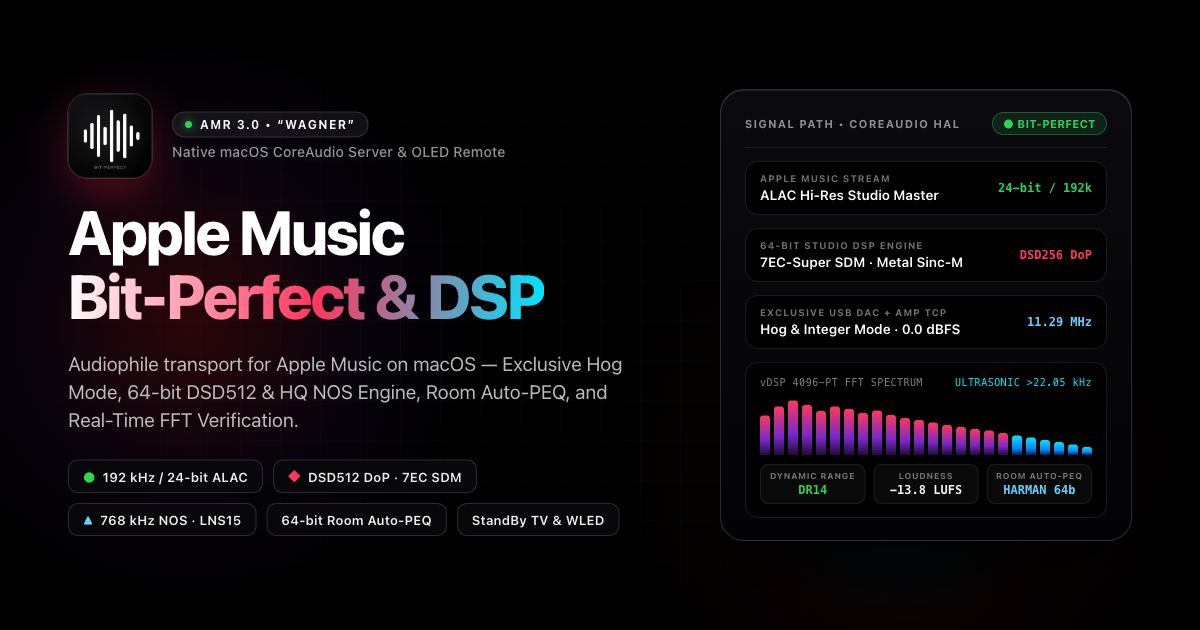
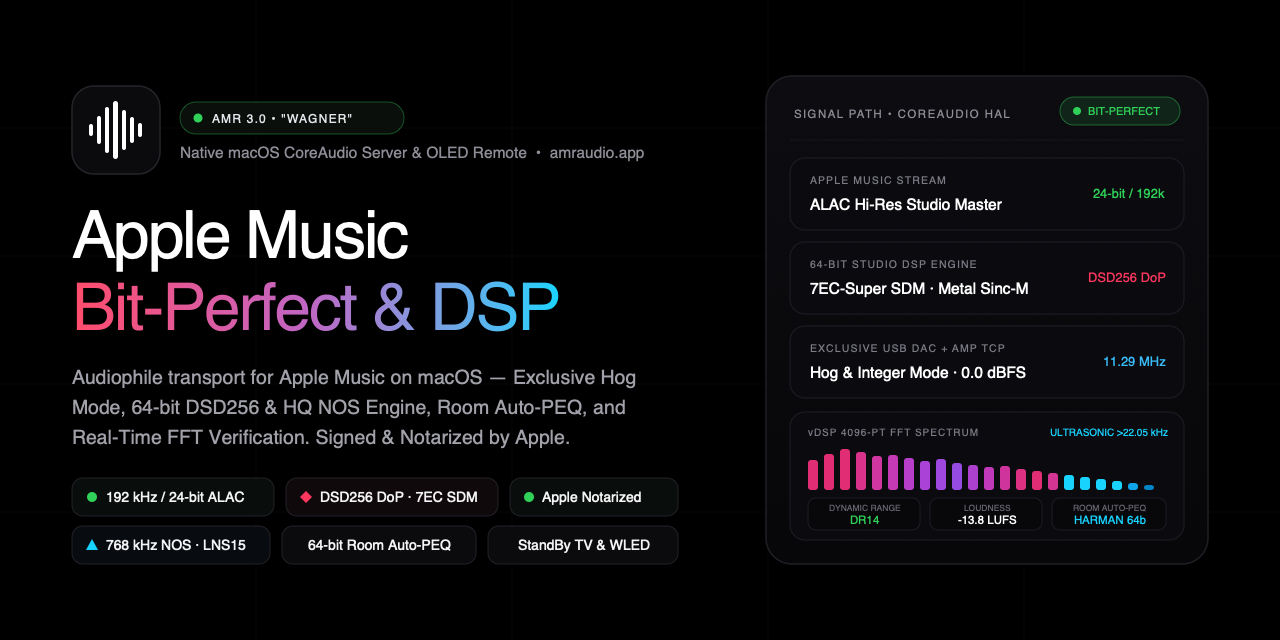
docs: align DSD256 specs, link amraudio.app & add community templates

diff --git a/ROADMAP.md b/ROADMAP.md
@@ -8,7 +8,7 @@ Strategic engineering roadmap for **Apple Music Remote (AMR)** — the native au
 
 1. **Uncompromising Bit-Perfect Audio & Isolated 64-Bit Studio DSP**:
    - Direct CoreAudio HAL control without intermediate OS software mixers or resamplers by default (`100% Bit-Perfect Passthrough`).
-   - Strict hardware sample-rate synchronization (`44.1 – 192 kHz` in Passthrough and up to `768 kHz / DSD512 DoP` in exclusive `Hog Mode`) guarded by automatic 3-stage USB DAC capability verification and 1-click hardware bypass.
+   - Strict hardware sample-rate synchronization (`44.1 – 192 kHz` in Passthrough and up to `768 kHz / DSD256 DoP` in exclusive `Hog Mode`) guarded by automatic 3-stage USB DAC capability verification and 1-click hardware bypass.
    - Enforced `100% Volume Lock` in macOS paired with external hardware volume attenuation over TCP (`Rotel`, `Denon / Marantz`, `Hegel`, `NAD`, `Lyngdorf`) and lossless streamers (`BluOS / DLNA`) for zero word-length degradation.
 2. **Headless Mac mini Autonomy**:
    - 24/7 background operation without requiring an open GUI window or brittle Accessibility UI scripting.
@@ -28,7 +28,7 @@ Strategic engineering roadmap for **Apple Music Remote (AMR)** — the native au
 | **v2.3.0** | **"Bach"** | ✅ Completed | 1. Bit-Perfect BluOS streaming via `AudioProcessTapService` (`24/192`)<br>2. Stream format pre-inspection & strict `Format Lock`<br>3. `MusicAppLifecycleManager` watchdog & persistent `ArtworkDiskCache` |
 | **v2.4.0** | **"Brahms"** | ✅ Completed | 1. Apple Music personalization: Listen Now, mixes & personal stations<br>2. Fullscreen StandBy / TV Mode (Motion Covers) + 40 FPS WLED DDP Ambilight<br>3. Anti-Stutter, AAC vs. ALAC detection & lightweight Zero-Stall IPC poller |
 | **v2.5.0** | **"Liszt"** | ✅ Completed | 1. `vDSP` FFT Spectral Hi-Res Verifier + persistent cache + 32-band TV RTA<br>2. `DAC Muting Guard` click-free sample-rate relay switcher<br>3. 📖 Multi-page Digital Album Booklets (`PDFKit`) + Studio Credits<br>4. 🔐 PWA Device Authorization, QR Invite sharing & per-device Lock Screen<br>5. ➕ Playlist management & Save AI Queue as Playlist + `EN / RU` localization<br>6. 🪄 On-device Apple Neural Engine AI (`FoundationModels` + 512-D `NLEmbedding` + `Vision` Saliency): Prompt Curator, Infinite AI Wave & semantic queue flow<br>7. 🔊 External Amplifier TCP volume bridge + hardware `iTunNORM` SoundCheck |
-| **v3.0.0** | **"Wagner"** | ✅ **Released** | 1. 🎛 Hybrid 64-Bit Studio DSP + `CoreAudio Exclusive Hog Mode`: `DSD64–DSD512 DoP (7EC + Trellis)`, `2x–16x` synchronous upsampling up to `768 kHz` (`AMX FP64` 65k / `Metal df64` 262k Sinc + `HQ PCM NOS` with `LNS15`), 3-stage USB DAC verifier & DSP presets<br>2. 📐 In-browser iPhone / iPad Room Acoustic Measurement (`RoomAcousticService`) + 64-bit 8-band `Auto-PEQ` toward Harman Target<br>3. 📊 Live Mastering Telemetry (`TT DR`, `EBU R128 LUFS / True Peak`, `4x ISP`, `Phase`) + Pre-DSP Restoration (`MasteringDeClipper` + `Weiss Dynamic De-Esser`) + `Audiophile Late-Night DRC` & `Repeat One`<br>4. ☁ Two-way **iCloud Drive** sync (DSP presets, DR/SoundCheck caches, Room PEQ), granular PWA device permissions, Zero-Keychain `AES-256-GCM` vault, Apple Notarized Universal DMG & `< 50 ms` `BluOS / DLNA` volume<br>5. 🌉 **`Sonic Bridge`** 512-D `SLERP` geodesic AI trajectory router<br>6. 🗂 Dedicated **Playlists** vs. 4-tab **Library** (`Recent / Artists / Albums / Songs`), full library deletion, Album Completeness Detector & configurable TV Library<br>7. ⚡ Sub-second (`0.5–0.9 s`) Direct Cloud ALAC/Hi-Res engine with single reusable staging buffer, zero library pollution & RAM `gzip` asset cache |
+| **v3.0.0** | **"Wagner"** | ✅ **Released** | 1. 🎛 Hybrid 64-Bit Studio DSP + `CoreAudio Exclusive Hog Mode`: `DSD64–DSD256 DoP (7EC + Trellis)`, `2x–16x` synchronous upsampling up to `768 kHz` (`AMX FP64` 65k / `Metal df64` 262k Sinc + `HQ PCM NOS` with `LNS15`), 3-stage USB DAC verifier & DSP presets<br>2. 📐 In-browser iPhone / iPad Room Acoustic Measurement (`RoomAcousticService`) + 64-bit 8-band `Auto-PEQ` toward Harman Target<br>3. 📊 Live Mastering Telemetry (`TT DR`, `EBU R128 LUFS / True Peak`, `4x ISP`, `Phase`) + Pre-DSP Restoration (`MasteringDeClipper` + `Weiss Dynamic De-Esser`) + `Audiophile Late-Night DRC` & `Repeat One`<br>4. ☁ Two-way **iCloud Drive** sync (DSP presets, DR/SoundCheck caches, Room PEQ), granular PWA device permissions, Zero-Keychain `AES-256-GCM` vault, Apple Notarized Universal DMG & `< 50 ms` `BluOS / DLNA` volume<br>5. 🌉 **`Sonic Bridge`** 512-D `SLERP` geodesic AI trajectory router<br>6. 🗂 Dedicated **Playlists** vs. 4-tab **Library** (`Recent / Artists / Albums / Songs`), full library deletion, Album Completeness Detector & configurable TV Library<br>7. ⚡ Sub-second (`0.5–0.9 s`) Direct Cloud ALAC/Hi-Res engine with single reusable staging buffer, zero library pollution & RAM `gzip` asset cache |
 | **v3.1.0** | **"Schumann"** | 📋 Planned | 1. 🛡 `Stereo Master Enforcement` (prevents hidden 48 kHz Dolby Atmos downmixes on stereo DACs)<br>2. ⬆ Linn Kazoo-style live queue mutations (`Play Next`, `Add to Queue`, `↑`, `×`), ⏸ `Stop After Current Track` & 1-tap Artist deep-links<br>3. 👎 `DislikedTracksStore` (instant skip + AI/Radio/Search exclusion) + `±1%` micro-step amplifier volume & TCP `Standby / Wake`<br>4. 🎤 Time-synced `TTML / LRC` karaoke lyrics + 📖 clickable Roon-style interactive booklet credits |
 | **v3.2.0** | **"Mendelssohn"** | 📋 Planned | 1. 🎸 Real-time `SoundAnalysis` Neural Engine instrument & vocal detector<br>2. 🧠 `CloudTasteProfileService` (`75% Taste / 25% Discovery` across OST, Metal, Electronic, Jazz & Classical)<br>3. 🕒 Recent AI Waves history & live `NLEmbedding` prompt expansion chips<br>4. 📈 Roon-style `Waveform Seekbar`, TV `Up Next` banner & remote hotkeys<br>5. 🌌 `3D Cover Flow & 4K Album Wall` + 👥 QR Guest `Party Mode` |
 | **v3.3.0** | **"Tchaikovsky"** | 📋 Planned | 1. 🎚 `Discovery Slider` (*Charts ↔ Deep Cuts*) + clean studio edition filter<br>2. 🎻 `Multi-Part Work Grouping & Gapless Live Guard` + Camelot BPM harmonic queue<br>3. 🌅 Synchronized `Sleep Timer & WLED DDP Sunset Fade`<br>4. 🎙 Natural-language command intent parser in Search |
@@ -51,7 +51,7 @@ Every milestone builds directly on primitives delivered in earlier releases:
    - `v3.7.0` pairs `TT DR + SpectralIntegrityAnalyzer` to rank album pressings in **`Master Edition Comparator`**.
    - `v4.0.0` combines `Master Edition Comparator` with `0.1 LUFS` gain matching in the **`Blind A/B & ABX Comparator`**.
 2. **Room Measurement & `Exclusive Hog Mode` → Crossfeed/Loudness → `Convolution FIR` & `AutoEQ`**:
-   - `v3.0.0` *(Released)* establishes **`CoreAudio Exclusive Hog Mode`**, **`DSD512 DoP (7EC)`**, **`HQ PCM NOS 768 kHz`**, and 64-bit **`Room Auto-PEQ`** ([`docs/DSP_AUDIO_ENGINE.md`](docs/DSP_AUDIO_ENGINE.md)).
+   - `v3.0.0` *(Released)* establishes **`CoreAudio Exclusive Hog Mode`**, **`DSD256 DoP (7EC)`**, **`HQ PCM NOS 768 kHz`**, and 64-bit **`Room Auto-PEQ`** ([`docs/DSP_AUDIO_ENGINE.md`](docs/DSP_AUDIO_ENGINE.md)).
    - `v3.5.0` adds **`Phase Invert`**, **`Bauer / Meier Crossfeed`**, and **`ISO 226 Loudness Contour`**.
    - `v4.0.0` layers **`65k-tap Convolution FIR (.wav REW)`**, **`AutoEQ`**, and **`Personal Audiogram EQ`** atop the same exclusive 64-bit engine.
 3. **Queue Primitives & Dislikes → Cloud Taste Profile → `Sonic Object Graph` → Classical Matrix**:

diff --git a/README.md b/README.md
@@ -15,7 +15,7 @@
 [![Architecture](https://img.shields.io/badge/Universal%202-arm64%20%7C%20x86__64-2563eb)](https://developer.apple.com/documentation/apple-silicon)
 [![License: MIT](https://img.shields.io/badge/License-MIT-f59e0b.svg)](LICENSE)
 
-[**⬇ Download Universal DMG**](https://github.com/1orgar/amr/releases/latest) · [**🎛 64-Bit DSP Engine Guide**](docs/DSP_AUDIO_ENGINE.md) · [**🗺 Roadmap**](ROADMAP.md) · [**🔌 WebSocket & HTTP API**](#-api--protocols)
+[**🌐 Website & Live Signal Lab**](https://amraudio.app) · [**⬇ Download Universal DMG**](https://github.com/1orgar/amr/releases/latest) · [**🎛 64-Bit DSP Engine Guide**](docs/DSP_AUDIO_ENGINE.md) · [**🗺 Roadmap**](ROADMAP.md) · [**🔌 WebSocket & HTTP API**](#-api--protocols)
 
 </div>
 
@@ -63,7 +63,7 @@ macOS resamples all system audio to a single fixed sample rate inside `coreaudio
 **Apple Music Remote (AMR)** solves both problems in a single native Swift menu bar server (~0% idle CPU, zero Electron, zero virtual audio drivers):
 
 * **100% Bit-Perfect Direct Mode** — Automatically switches your hardware DAC clock (`44.1 – 192 kHz`) bit-for-bit to match each Apple Music track, enforces `100% Volume Lock`, and verifies ultrasonic content in real time via `vDSP` FFT so upsampled "fake Hi-Res" masters never go unnoticed.
-* **Optional 64-Bit Studio DSP (`Exclusive Hog Mode`)** — Engage `DSD64–DSD512 DoP` (`7EC` 7th-order Sigma-Delta with Viterbi Trellis), synchronous `2x–16x` oversampling up to `768 kHz` (`Accelerate AMX FP64` 65k taps / `Metal GPU df64` 262k taps + `LNS15` 15th-order noise shaper for R2R NOS DACs), 64-bit **Room Auto-PEQ** measured straight from your iPhone mic, **Pre-DSP De-Clipper & Weiss De-Esser**, or **Late-Night DRC** — with an instant 1-click return to `100% Bit-Perfect Bypass`.
+* **Optional 64-Bit Studio DSP (`Exclusive Hog Mode`)** — Engage `DSD64–DSD256 DoP` (`7EC` 7th-order Sigma-Delta with Viterbi Trellis), synchronous `2x–16x` oversampling up to `768 kHz` (`Accelerate AMX FP64` 65k taps / `Metal GPU df64` 262k taps + `LNS15` 15th-order noise shaper for R2R NOS DACs), 64-bit **Room Auto-PEQ** measured straight from your iPhone mic, **Pre-DSP De-Clipper & Weiss De-Esser**, or **Late-Night DRC** — with an instant 1-click return to `100% Bit-Perfect Bypass`.
 * **Pure `#000000` OLED Web Remote (PWA)** — Control playback, playlists, library, AI curation, digital booklets, and hardware amplifier volume from any iPhone, iPad, Android phone, desktop browser, or living-room TV over LAN with zero app-store friction.
 * **Signed, Notarized & Zero-Keychain Vault** — Distributed as an Apple Developer ID signed & notarized Universal 2 `.dmg` (`arm64` + `x86_64`) with a local `AES-256-GCM` `CryptoKit` secret store — **zero Gatekeeper warnings and zero macOS Keychain password prompts**.
 
@@ -74,7 +74,7 @@ macOS resamples all system audio to a single fixed sample rate inside `coreaudio
 ### 🎧 Bit-Perfect CoreAudio HAL & Hybrid 64-Bit Studio DSP
 * **Automatic Hardware Sample Rate Sync**: Instant CoreAudio clock switching across `44.1`, `48`, `88.2`, `96`, `176.4`, and `192 kHz` in `Bit-Perfect Passthrough`, plus `DAC Muting Guard` (`Pre-Mute → PLL Lock → Unmute`) for click-free relay transitions.
 * **Exclusive `Hog Mode` + Non-Mixable Integer (`0x4c`)**: Lock-free `SPSCAtomicRingBuffer` + `RealtimeMachWorker` captures `Music.app` via `AudioProcessTapService` and drives your external USB DAC directly, isolating it from macOS system alerts and the 32-bit OS mixer.
-* **`DSD64 / DSD128 / DSD256 / DSD512 DoP` (`7EC` Modulator)**: 7th-order Chebyshev Sigma-Delta modulator (`7EC-Transient`, `7EC-Balanced`, `7EC-Super`) with **Viterbi Trellis lookahead (`M = 4..16`)** and ISI regularizer.
+* **`DSD64 / DSD128 / DSD256 DoP` (`7EC` Modulator)**: 7th-order Chebyshev Sigma-Delta modulator (`7EC-Transient`, `7EC-Balanced`, `7EC-Super`) with **Viterbi Trellis lookahead (`M = 4..16`)** and ISI regularizer up to `11.29 / 12.29 MHz` (`DoP 705.6 / 768 kHz`).
 * **`HQ PCM NOS` up to `705.6 / 768 kHz`**: Multi-stage `Accelerate AMX FP64` (**65,536 taps**) and `Metal GPU Overlap-Save df64` (**262,144 taps**) Linear-Phase / Minimum-Phase Sinc filters paired with a 15th-order psychoacoustic **`LNS15`** noise shaper (`< -165 dBFS` audible floor — tailored for discrete R2R / Multibit ladder DACs).
 * **3-Stage Hardware USB DAC Verifier**: Automatically inspects bus transport, integer bit depth (`≥ 24-bit`), and supported rate grids — blocking `DSD DoP` / `NOS` on built-in Mac speakers, AirPlay, Bluetooth, HDMI, or 16-bit headsets.
 * **Full Technical Reference**: Read [**`docs/DSP_AUDIO_ENGINE.md`**](docs/DSP_AUDIO_ENGINE.md) for filter math, preset architecture, and acoustic tuning.
@@ -114,7 +114,7 @@ macOS resamples all system audio to a single fixed sample rate inside `coreaudio
                        │                                                        │
  📱 iPhone / iPad / TV │  ┌──────────────────────────────────────────────────┐  │   🎧 External USB DAC
  💻 Pure OLED Web PWA ─┼─►│  CoreAudio HAL + Hybrid 64-Bit Studio DSP        ├──┼──► • Bit-Perfect 44.1–192 kHz
- (WebSocket + gzip)    │  │  • Exclusive Hog Mode • DSD512 DoP • NOS 768 kHz │  │    • DSD64–512 DoP / 768k NOS
+ (WebSocket + gzip)    │  │  • Exclusive Hog Mode • DSD256 DoP • NOS 768 kHz │  │    • DSD64–256 DoP / 768k NOS
                        │  │  • Room Auto-PEQ • De-Clipper • vDSP FFT / DR    │  │
  🏠 Home Assistant     │  └────────────────────────▲─────────────────────────┘  │   🔊 Integrated Amplifier
  📻 UPnP / DLNA DMR ───┼─►                         │ AudioProcessTap            ├──► • TCP Volume & iTunNORM

diff --git a/RELEASE_NOTES.md b/RELEASE_NOTES.md
@@ -1,10 +1,12 @@
 <div align="center">
-  <img src="https://raw.githubusercontent.com/1orgar/amr/v3.0.0/docs/images/amr-social-preview.png" alt="Apple Music Remote 3.0 — Wagner" width="100%">
+  <img src="https://raw.githubusercontent.com/1orgar/amr/main/docs/images/amr-social-preview.png" alt="Apple Music Remote 3.0 — Wagner" width="100%">
 </div>
 
 # Apple Music Remote 3.0.0 — "Wagner"
 
-**v3.0.0 ("Wagner")** is our biggest milestone release yet — introducing a reference **Hybrid 64-Bit Studio DSP Engine** with `CoreAudio Exclusive Hog Mode` (`DSD64–DSD512 DoP` via 7th-order `7EC` + Viterbi Trellis, and `HQ PCM NOS` up to `768 kHz` with `AMX FP64` 65k / `Metal GPU df64` 262k Sinc filters & `LNS15` noise shaping), **64-Bit Room Acoustic `Auto-PEQ`** measured straight from your iPhone / iPad microphone, real-time **Mastering Telemetry (`TT DR`, `EBU R128 LUFS`, `4x ISP`, `Phase`)**, **Pre-DSP Mastering Restoration (`De-Clipper` & `Weiss Dynamic De-Esser`)**, **Audiophile `Late-Night DRC`**, **Apple Neural Engine `Sonic Bridge`** (`512-D SLERP` trajectory routing), **Two-Way iCloud Drive Sync**, a **sub-second Direct Cloud Hi-Res Engine** with zero library pollution, a **Zero-Keychain `AES-256-GCM` Vault**, **Apple Developer ID Signing & Notarization**, **100% English & Russian Localization**, and **410+ automated Swift unit tests**.
+**v3.0.0 ("Wagner")** is our biggest milestone release yet — introducing a reference **Hybrid 64-Bit Studio DSP Engine** with `CoreAudio Exclusive Hog Mode` (`DSD64–DSD256 DoP` via 7th-order `7EC` + Viterbi Trellis, and `HQ PCM NOS` up to `768 kHz` with `AMX FP64` 65k / `Metal GPU df64` 262k Sinc filters & `LNS15` noise shaping), **64-Bit Room Acoustic `Auto-PEQ`** measured straight from your iPhone / iPad microphone, real-time **Mastering Telemetry (`TT DR`, `EBU R128 LUFS`, `4x ISP`, `Phase`)**, **Pre-DSP Mastering Restoration (`De-Clipper` & `Weiss Dynamic De-Esser`)**, **Audiophile `Late-Night DRC`**, **Apple Neural Engine `Sonic Bridge`** (`512-D SLERP` trajectory routing), **Two-Way iCloud Drive Sync**, a **sub-second Direct Cloud Hi-Res Engine** with zero library pollution, a **Zero-Keychain `AES-256-GCM` Vault**, **Apple Developer ID Signing & Notarization**, **100% English & Russian Localization**, and **410+ automated Swift unit tests**.
+
+🌐 **Website & Interactive Signal Lab:** [https://amraudio.app](https://amraudio.app)
 
 ---
 
@@ -12,8 +14,8 @@
 * **Lock-Free Exclusive Hardware Pipeline (`AudioEngineController` + `CoreAudioDeviceManager`)**:
   * Captures `Music.app` via `AudioProcessTapService` (`.muted`) and drives external USB DACs directly through a dedicated `AudioDeviceIOProcID` under `kAudioDevicePropertyHogMode` + `Non-Mixable Integer (0x4c)`, powered by `SPSCAtomicRingBuffer` and `RealtimeMachWorker` with zero allocations on the real-time audio thread.
   * Instant 1-click return to **`100% Bit-Perfect Passthrough (Off)`** with native source clock restoration (`44.1 – 192 kHz`).
-* **7th-Order `7EC` Sigma-Delta DSD Modulator (`DSD64 / DSD128 / DSD256 / DSD512 DoP`)**:
-  * Three NTF profiles (`7EC-Transient`, `7EC-Balanced`, `7EC-Super`), parallel **Viterbi Trellis lookahead (`M = 4 / 8 / 16`)**, Inter-Symbol Interference (`ISI`) regularizer, and lossless DoP v1.1 (`0x05 / 0xFA`) framing.
+* **7th-Order `7EC` Sigma-Delta DSD Modulator (`DSD64 / DSD128 / DSD256 DoP`)**:
+  * Three NTF profiles (`7EC-Transient`, `7EC-Balanced`, `7EC-Super`), parallel **Viterbi Trellis lookahead (`M = 4 / 8 / 16`)**, Inter-Symbol Interference (`ISI`) regularizer, and lossless DoP v1.1 (`0x05 / 0xFA`, up to `705.6 / 768 kHz`) framing.
 * **Synchronous `2x–16x` Oversampling & `HQ PCM NOS` up to `705.6 / 768 kHz`**:
   * **`Accelerate AMX FP64` (`65,536` taps)** and **`Metal GPU Overlap-Save df64` (`262,144` taps)** Linear-Phase and Minimum-Phase Sinc filters.
   * **`HQ PCM NOS` Mode** for discrete R2R / Multibit ladder and Hi-Res PCM DACs with a **15th-order psychoacoustic `LNS15` noise shaper** (`< -165 dBFS` audible noise floor, 27+ effective bits).

diff --git a/docs/DSP_AUDIO_ENGINE.md b/docs/DSP_AUDIO_ENGINE.md
@@ -23,7 +23,7 @@
 Direct bit-for-bit delivery of the native Apple Music PCM stream (`44.1 – 192 kHz`, `16/24-bit`) to your external DAC with zero oversampling, zero modulation, and automatic hardware sample rate switching via `BitPerfectLogMonitor`.
 
 ### 1.2. `DSD DoP (7EC SDM)` — 7th-Order 1-Bit Sigma-Delta Modulator
-Converts incoming PCM into a high-rate 1-bit **DSD64 / DSD128 / DSD256 / DSD512** stream (`2.82 – 22.58 MHz`) using a 7th-order cascaded modulator with Chebyshev NTF resonator notches (`7EC`) and **Viterbi Trellis lookahead** (`TrellisViterbiModulator`), packed losslessly into **DoP v1.1 (`DSD over PCM`, `0x05 / 0xFA` markers)**.
+Converts incoming PCM into a high-rate 1-bit **DSD64 / DSD128 / DSD256** stream (`2.82 – 12.29 MHz`) using a 7th-order cascaded modulator with Chebyshev NTF resonator notches (`7EC`) and **Viterbi Trellis lookahead** (`TrellisViterbiModulator`), packed losslessly into **DoP v1.1 (`DSD over PCM`, `0x05 / 0xFA` markers)**.
 * When `0x05 / 0xFA` frames arrive over a bit-exact integer transport, your external USB DAC or DDC (such as Topping, SMSL, Holo Audio, Denafrips, Chord, RME, etc.) recognizes native DSD and bypasses its internal on-chip PCM interpolation stages.
 
 ### 1.3. `HQ PCM NOS` (High-Quality Non-Oversampling PCM up to 768 kHz)
@@ -57,11 +57,10 @@ Converts incoming PCM into a high-rate 1-bit **DSD64 / DSD128 / DSD256 / DSD512*
 
 ## 3. DSP Parameter Reference & Sonic Impact
 
-### 3.1. DSD Rate (`DSD64` / `DSD128` / `DSD256` / `DSD512`)
-* **`DSD64`** (`2.8224 MHz`, DoP carrier `176.4 kHz`) — Scarlet Book SACD standard; compatible with optical Toslink and coaxial S/PDIF (`≤ 192 kHz`).
-* **`DSD128`** (`5.6448 MHz`, DoP carrier `352.8 kHz`) — pushes ultrasonic modulation noise an octave higher with low CPU usage.
-* **`DSD256`** (`11.2896 MHz`, DoP carrier `705.6 kHz`) — sweet spot for modern USB DACs (`> 155 dB` audible SNR).
-* **`DSD512`** (`22.5792 MHz`, DoP carrier `1411.2 kHz`) — for USB DACs supporting `1.411 / 1.536 MHz` PCM carriers (automatically negotiates down to the highest supported rate if the DAC caps at `705.6 / 768 kHz`).
+### 3.1. DSD Rate (`DSD64` / `DSD128` / `DSD256`)
+* **`DSD64`** (`2.8224 / 3.072 MHz`, DoP carrier `176.4 / 192 kHz`) — Scarlet Book SACD standard; compatible with optical Toslink and coaxial S/PDIF (`≤ 192 kHz`).
+* **`DSD128`** (`5.6448 / 6.144 MHz`, DoP carrier `352.8 / 384 kHz`) — pushes ultrasonic modulation noise an octave higher with low CPU usage.
+* **`DSD256`** (`11.2896 / 12.288 MHz`, DoP carrier `705.6 / 768 kHz`) — practical hardware DoP ceiling on macOS CoreAudio USB Audio Class 2 (`> 155 dB` audible SNR; automatically negotiates down if a DAC caps below `705.6 / 768 kHz`).
 
 ### 3.2. 7th-Order Modulator Profile (`7EC`)
 * **`7EC-Transient` (`OBG = 1.38`)**: conservative out-of-band gain with fast loop settling for tight bass and percussive slam.

diff --git a/CONTRIBUTING.md b/CONTRIBUTING.md
@@ -1,0 +1,33 @@
+# Contributing to Apple Music Remote (AMR)
+
+Thank you for your interest in contributing to **Apple Music Remote (AMR)**!
+
+## Core Engineering Invariants
+
+1. **100% Bit-Perfect by Default**: `Bit-Perfect Passthrough (Off)` must remain bit-identical (`0.0 dBFS`, zero sample-rate conversion, zero DSP overhead) unless the user explicitly enables an exclusive 64-bit DSP preset or Pre-DSP stage.
+2. **Real-Time Audio Safety**: Never perform heap allocations, locks, Objective-C messaging, or disk/network I/O inside CoreAudio `IOProc` callbacks. Use lock-free `SPSCAtomicRingBuffer` primitives.
+3. **Zero External Bloat**: AMR is built in pure Swift using native Apple frameworks (`CoreAudio`, `AudioToolbox`, `Accelerate / vDSP`, `Metal`, `Network`, `MusicKit`, `FoundationModels`, `NaturalLanguage`, `Vision`, `PDFKit`, `CryptoKit`).
+4. **Headless Operation**: Never introduce Accessibility UI scripting that requires an unlocked screen or foreground window.
+
+## Development Setup & Verification
+
+- **macOS 14.0 (Sonoma)** or newer
+- **Xcode 15.2+** (`Swift 5.9+`)
+
+```bash
+# Run the full unit & DSP verification suite (410+ tests)
+DEVELOPER_DIR=/Applications/Xcode.app/Contents/Developer swift test --package-path AppleMusicRemoteMac --parallel
+
+# If you modified Web PWA sources under AppleMusicRemoteMac/Web/src/{html,css,js}/:
+python3 AppleMusicRemoteMac/Tools/sync_web_ui.py
+
+# Verify Universal 2 compilation (arm64 + x86_64)
+xcrun swift build --package-path AppleMusicRemoteMac --triple arm64-apple-macosx14.0
+xcrun swift build --package-path AppleMusicRemoteMac --triple x86_64-apple-macosx14.0
+```
+
+## Submitting Pull Requests
+
+1. Open an issue or discussion first for major architectural or DSP changes.
+2. Add or update unit tests under `AppleMusicRemoteMac/Tests/AppleMusicRemoteMacTests/` for any new DSP, networking, or queue behavior.
+3. Ensure both `EN` and `RU` UI strings remain localized and synchronized.

diff --git a/SECURITY.md b/SECURITY.md
@@ -1,0 +1,19 @@
+# Security Policy
+
+## Architecture & Privacy Posture
+
+- **100% Local LAN Execution**: AMR runs directly on your Mac over your local network (`HTTP / WebSocket :8080`, optional `UPnP :8090`). No audio streams, listening history, or library metadata are sent to third-party servers.
+- **Zero-Keychain `AES-256-GCM` Vault**: Local credentials and MusicKit tokens are encrypted at rest via Apple `CryptoKit` (`AES-256-GCM`) with strict `0700` / `0600` POSIX permissions.
+- **Per-Device Authorization**: Remote Web PWA clients can be gated with invite tokens (`?invite=<token>`) and granular per-device capability permissions (`DAC`, `DSP`, `Room EQ`, `Late-Night DRC`).
+- **Signed & Apple Notarized**: Official Universal 2 `.dmg` releases are signed with an Apple Developer ID certificate and notarized by Apple.
+
+## Supported Versions
+
+| Version | Supported |
+| :--- | :--- |
+| `3.0.x` | ✅ Yes |
+| `< 3.0` | ❌ Upgrade to `v3.0.0+` |
+
+## Reporting a Vulnerability
+
+Please **do not** open a public GitHub issue for security vulnerabilities. Instead, use GitHub's [**Report a vulnerability**](https://github.com/1orgar/amr/security/advisories/new) private advisory form (or contact `@1orgar` via GitHub) with reproduction details and affected macOS / AMR versions.

diff --git a/CODE_OF_CONDUCT.md b/CODE_OF_CONDUCT.md
@@ -1,0 +1,15 @@
+# Contributor Covenant Code of Conduct
+
+## Our Pledge
+
+We pledge to make participation in **Apple Music Remote (AMR)** a welcoming, respectful, and constructive engineering experience for everyone—whether discussing bit-perfect CoreAudio internals, DAC measurements, DSP algorithms, or UI ergonomics.
+
+## Standards
+
+- Focus on technical merit, reproducible measurements, and clear communication.
+- Respect differing hardware setups (USB DACs, R2R NOS ladders, Sigma-Delta modulators, BluOS/DLNA streamers, and integrated amplifiers).
+- Harassment, personal attacks, trolling, or publishing others' private information is not tolerated.
+
+## Enforcement
+
+Project maintainers may edit, lock, or remove contributions that violate this Code of Conduct. Report unacceptable behavior via GitHub to `@1orgar`.

diff --git a/.github/PULL_REQUEST_TEMPLATE.md b/.github/PULL_REQUEST_TEMPLATE.md
@@ -1,0 +1,7 @@
+## Summary
+- 
+
+## Verification
+- [ ] `swift test --package-path AppleMusicRemoteMac --parallel` passes
+- [ ] `arm64` & `x86_64` builds succeed
+- [ ] `Bit-Perfect Passthrough (Off)` remains `100%` untouched when DSP is disabled
